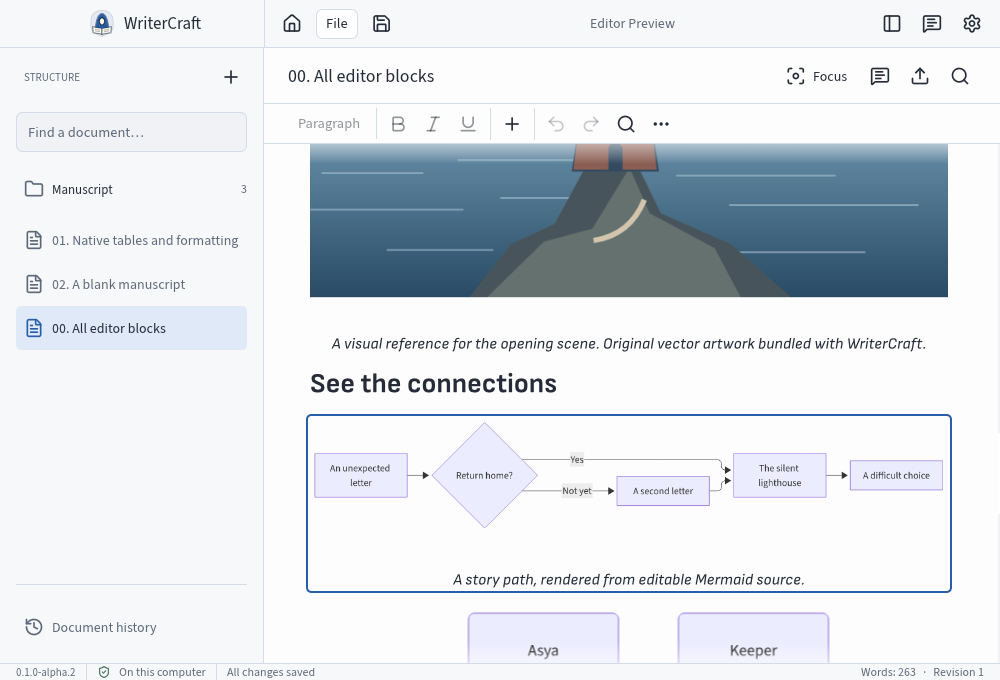
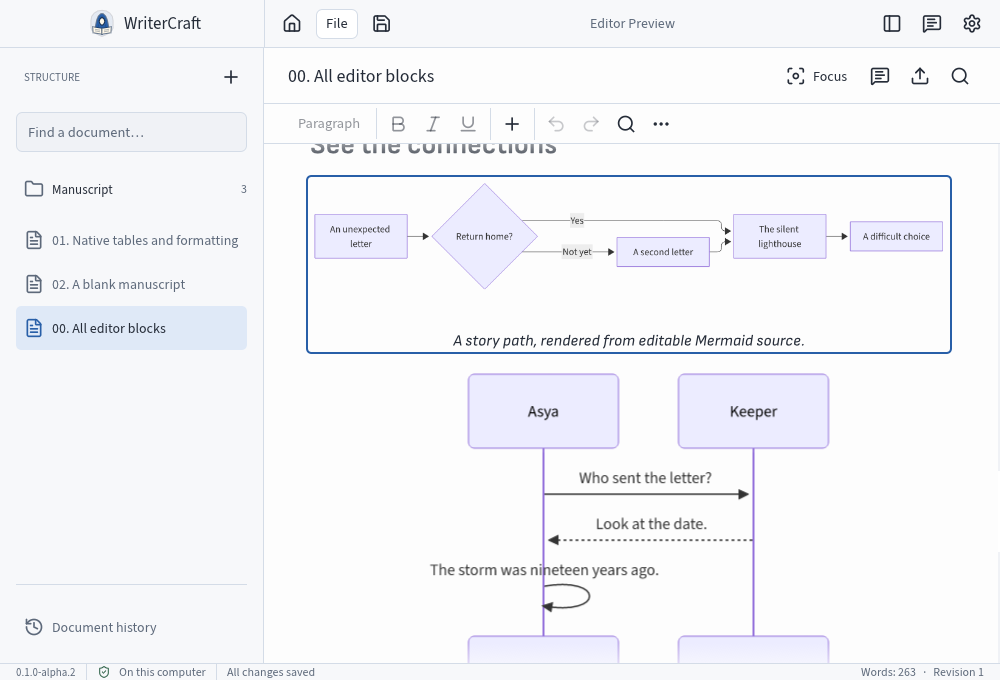
Refresh README evidence from all twenty final normal-app captures

diff --git a/docs/verification/RELEASE_ALPHA_2.md b/docs/verification/RELEASE_ALPHA_2.md
@@ -6,7 +6,7 @@ Target: `0.1.0-alpha.2`, engineering prerelease, named scope `native-rich-editor
 
[1 lines of base64/hex data omitted]
 
-The preceding `bde1be1` runtime passed [main verification 42492511935](https://github.com/avacadorun-dev/writer-craft/actions/runs/42492511935) (270 default workspace tests, 12 isolated model tests, strict Clippy/fmt and ten strict OpenSpec contracts) and [all-feature verification 42492506690](https://github.com/avacadorun-dev/writer-craft/actions/runs/42492506690) (372 workspace tests). Windows/Linux shared-core checks passed. Final-source runs: [main 42493466703](https://github.com/avacadorun-dev/writer-craft/actions/runs/42493466703), [native 42493462208](https://github.com/avacadorun-dev/writer-craft/actions/runs/42493462208), [installers 42493462622](https://github.com/avacadorun-dev/writer-craft/actions/runs/42493462622). Their completed results must be inspected before tagging.
+The preceding `bde1be1` runtime passed [main verification 42492511935](https://github.com/avacadorun-dev/writer-craft/actions/runs/42492511935) (270 default workspace tests, 12 isolated model tests, strict Clippy/fmt and ten strict OpenSpec contracts) and [all-feature verification 42492506690](https://github.com/avacadorun-dev/writer-craft/actions/runs/42492506690) (372 workspace tests). Windows/Linux shared-core checks passed. Final-source runs: [main 42493466703](https://github.com/avacadorun-dev/writer-craft/actions/runs/42493466703), [native 42493462208](https://github.com/avacadorun-dev/writer-craft/actions/runs/42493462208), [installers 42493462622](https://github.com/avacadorun-dev/writer-craft/actions/runs/42493462622). Final-source main verification completed successfully with 273 default workspace tests, 12 isolated model tests, strict Clippy/fmt and ten valid OpenSpec contracts. All-feature native verification also completed successfully; its final test count is retained in the hosted log. Installer results and aggregate identity are checked separately before tagging.
 
 Release tooling separately passed 11 installer fixtures, six promotion/staging fixtures, four capture-runner fixtures and Actionlint. Optimized compilation and native package generation were performed only on hosted runners.
 
@@ -14,7 +14,7 @@ Release tooling separately passed 11 installer fixtures, six promotion/staging f
 
 The package graph builds the native editor under `app.writercraft.desktop`, with `WriterCraftNativeEditor:true`; it never enables preview identity merely to pass the installer checks. Normal-app capture mode uses a fresh synthetic database per case, explicit demo data and actual WGPU screenshot readback. It records observed dimensions, current readiness, target visibility and unchanged canonical JSON. Requested wide sizes constrained by the hosted display are not wide acceptance.
 
-At `bde1be1`, 19/20 normal-app cases passed; the enlarged lower-caption heading case failed honestly because semantic navigation consumed a pre-settled position and never revealed the target. No PNG/readback or success was invented. The capture-only `8af4233` correction permits one extra semantic navigation per renderer generation after three identical, settled native geometry observations, only for an unseen target. Visible tall objects never retry. Three regressions retain real visibility/readiness checks and prove bounded attempts. This changes capture instrumentation, not manuscript spacing or product rendering. The required final 20-case run must pass before the scoped release gate.
[1 lines of base64/hex data omitted]
 
 README screenshots are real normal-app captures with synthetic public artwork/text; their source, case, actual dimensions and hashes are recorded in [CAPTURES.json](../images/alpha2/CAPTURES.json). The independent reviewer owns the final scoped decision and gate.
 
@@ -24,7 +24,7 @@ A hosted `c277a3c` alpha.2 macOS ARM64 DMG was checksum-verified, mounted read-o
 
 Observed: normal WriterCraft window, correct monk/book icon, version `0.1.0-alpha.2`, local/saved status and document navigation. The actual Add document modal/Return created a new rich document and exposed the real formatting/Insert/Undo/Redo toolbar. A native paste of a synthetic paragraph and Command-S produced the exact displayed paragraph, nine words, revision2 and saved status. A read-only query independently confirmed canonical rich JSON at revision2. A genuine wide local screenshot showed the bounded floating manuscript and reachable controls; this is not exhaustive adaptive-transition acceptance.
 
-CUA `typeText` into the new-document title resulted in literal `2` rather than the complete requested ASCII title. This remains an unqualified automation/input observation; neither successful complete typing nor a proven application cause is claimed. The Mac then locked before remaining formatting, reopen and preference-error interaction checks. No automatic unlock, private manuscript use or fabricated success followed.
+CUA `typeText` into the new-document title resulted in literal `2` rather than the complete requested ASCII title. This remains an unqualified automation/input observation; neither successful complete typing nor a proven application cause is claimed. The Mac then locked before remaining formatting, reopen and preference-error interaction checks. After the owner unlocked it, native CUA confirmed the full Insert menu and Mermaid source/caption dialog. The subsequent source-edit automation was interrupted by stale accessibility IDs and a CUA timeout; the next fresh observation showed the library with Files & recovery settings and the correct isolated database path. No successful final diagram insertion, formatting or reopen is inferred from that interrupted action. No automatic unlock, private manuscript use or fabricated success followed.
 
 The subsequent source changes before this candidate are scoped preference-test semantics and explicit synthetic capture fixture/navigation logic; no ordinary authoring/persistence change was identified. The independent review must state any evidence carried from that earlier native executable. Full IME/accessibility/input, note/dictionary/proposal, preference recovery and other deferred journey matrices remain open in alpha.3.
 
